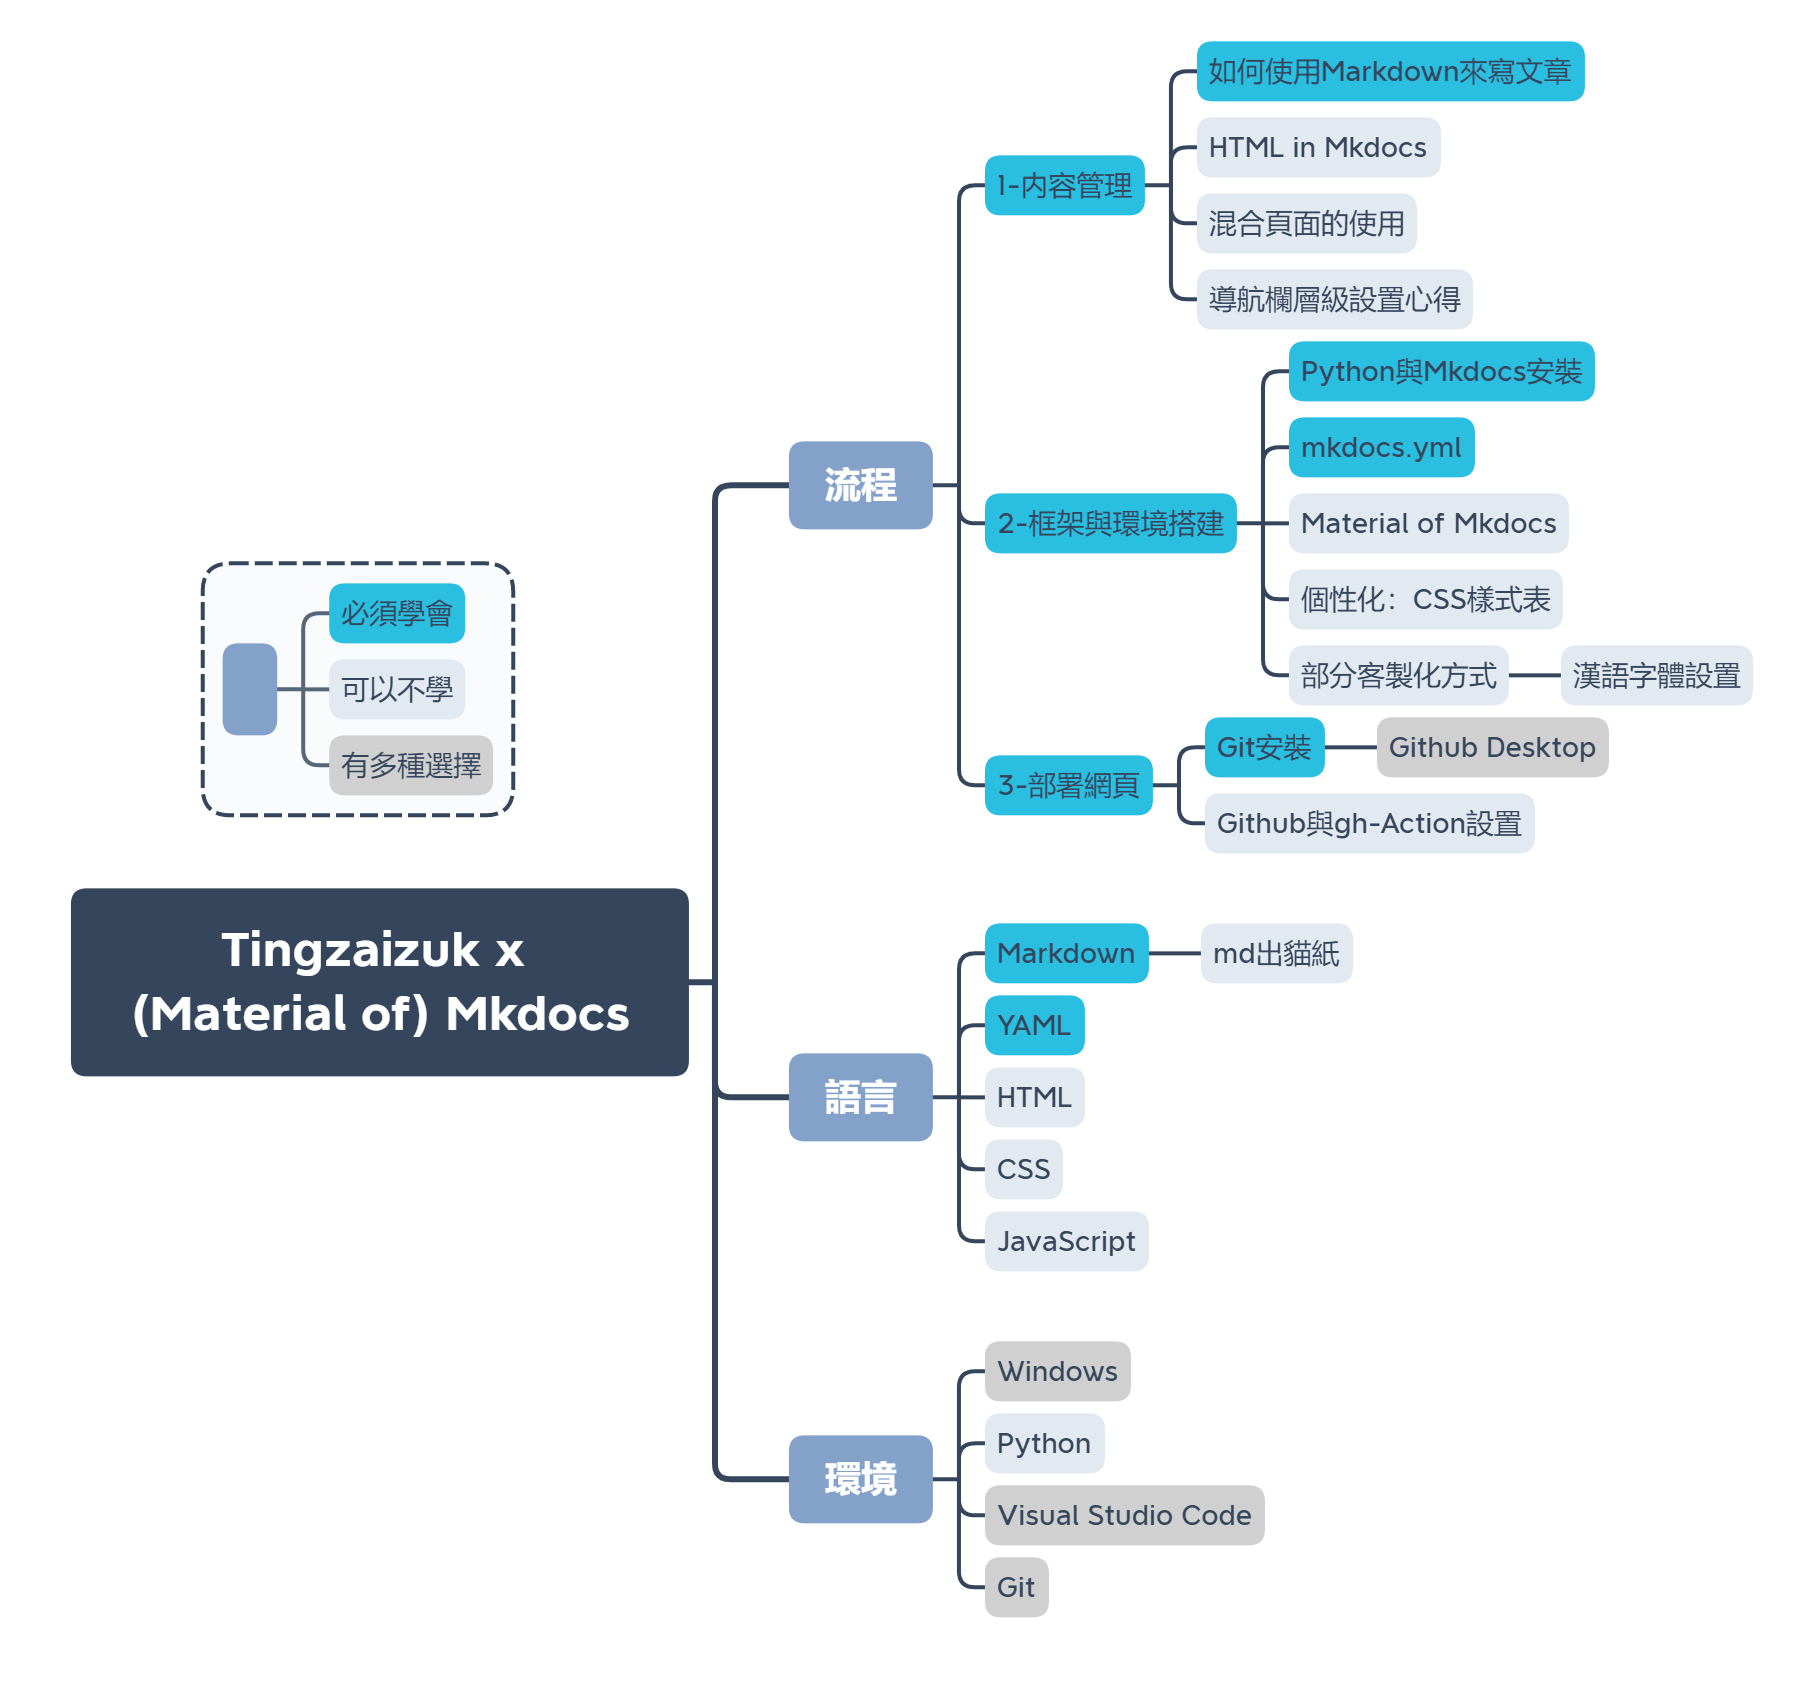
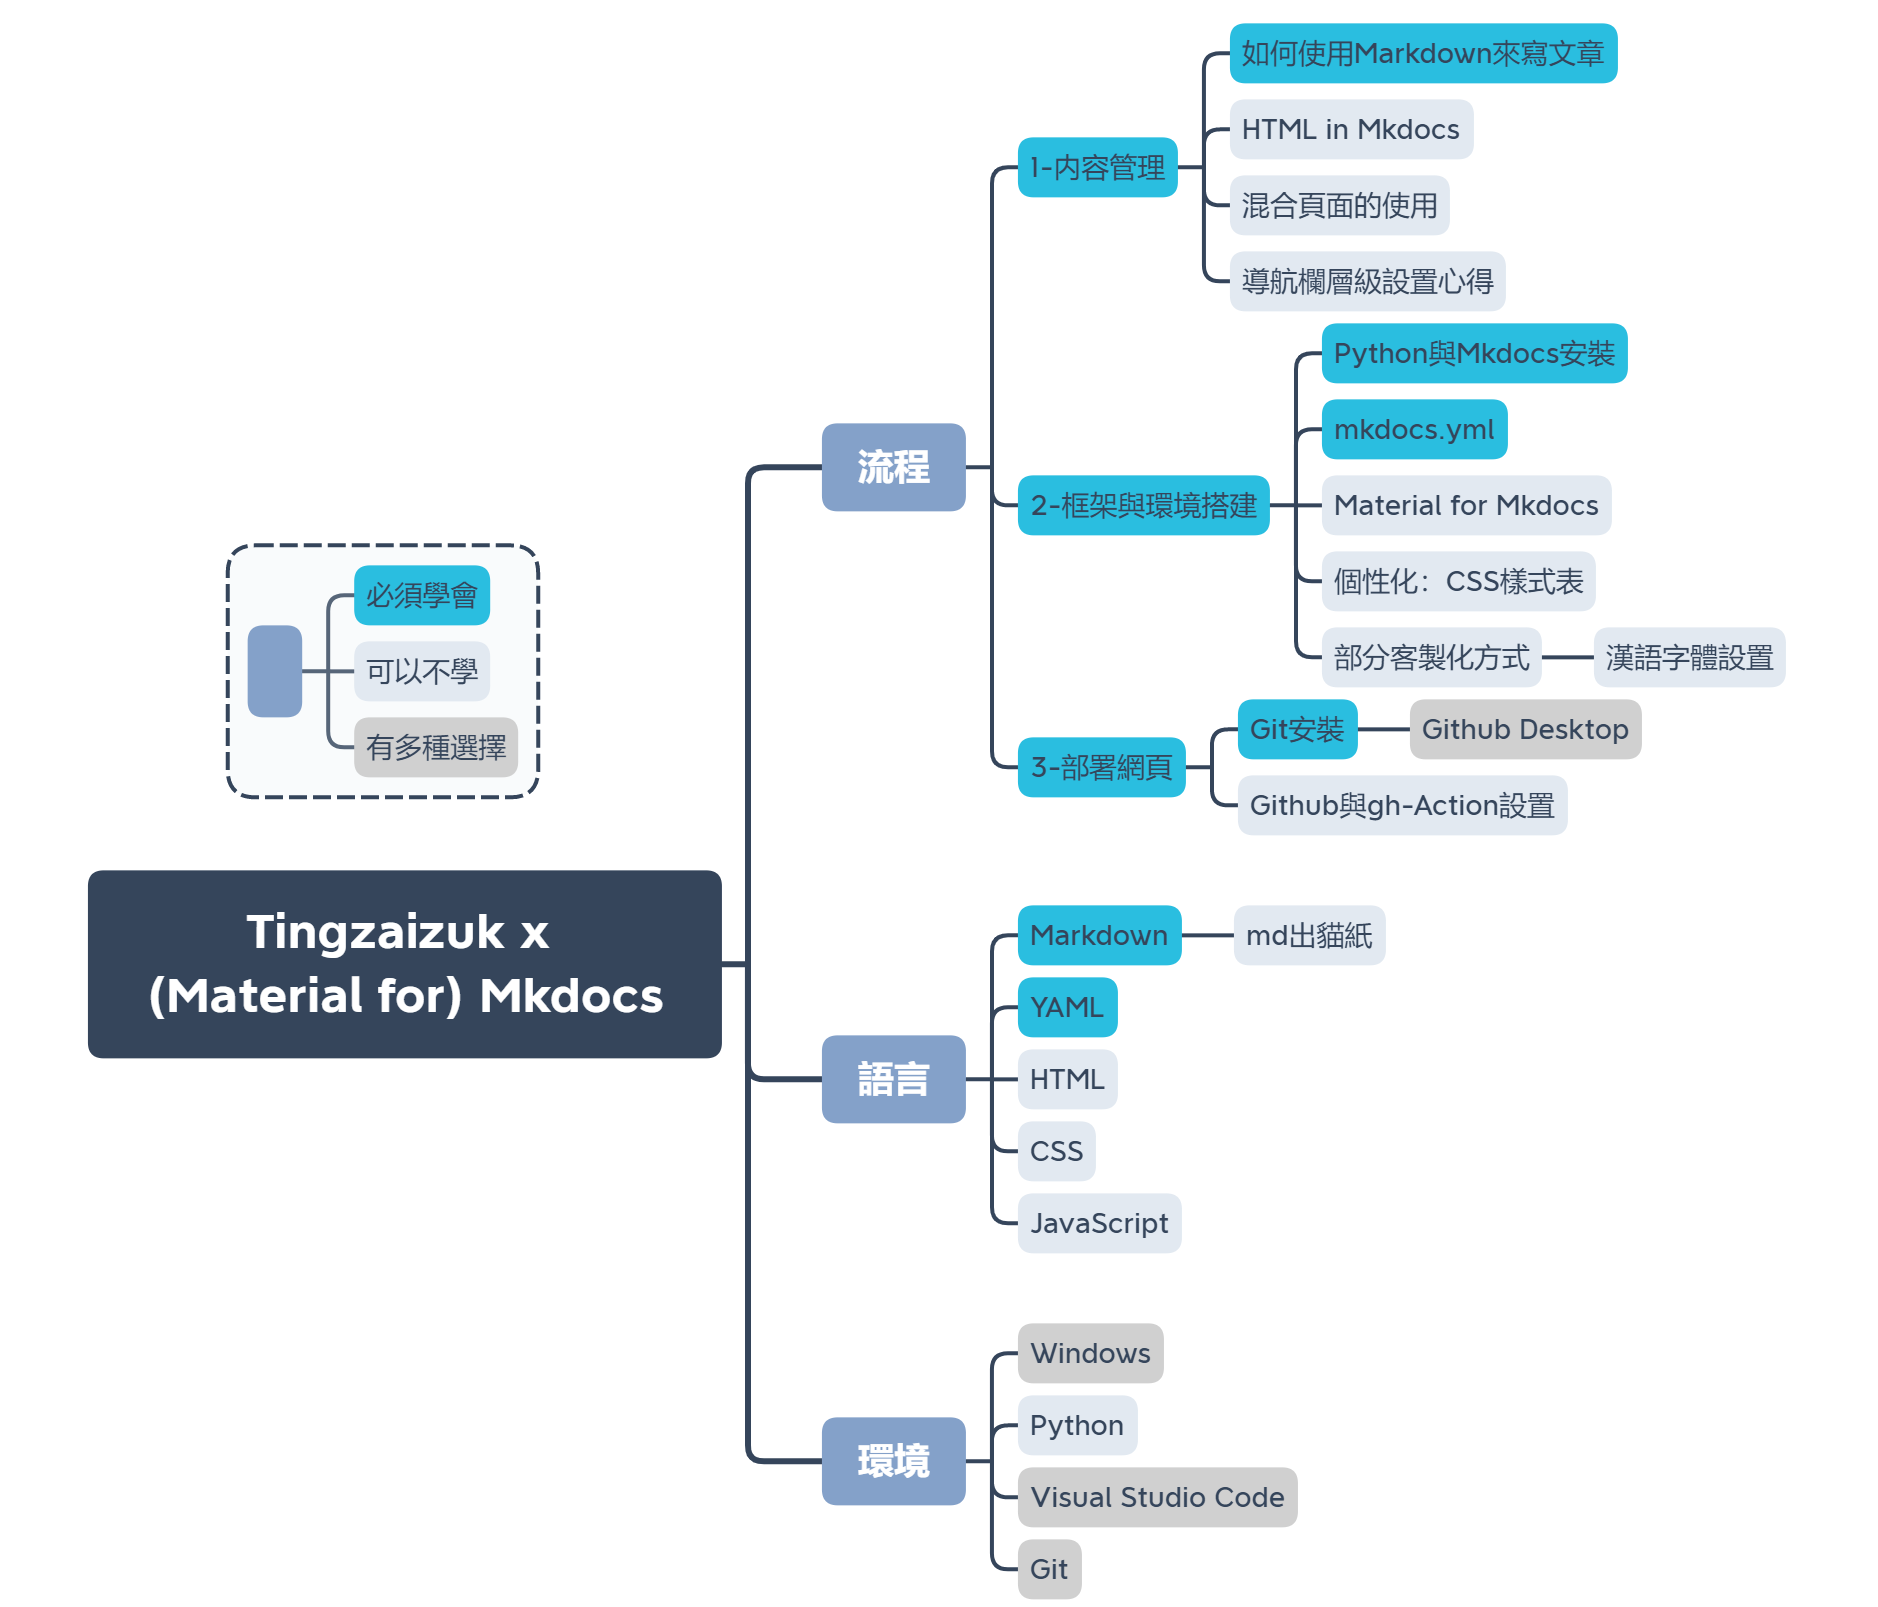
typo

Changed region(s): [[0.0308, 0.0, 0.9857, 0.9956]]

diff --git a/docs/tech/mkdocsbuild.md b/docs/tech/mkdocsbuild.md
@@ -1,6 +1,6 @@
-# Material of Mkdocs 個人網站搭建
+# Material for Mkdocs 個人網站搭建
 
-這篇文章講述了本網站運用Mkdocs與其衍生模板框架Material of Mkdocs的使用方法之快速導覽，記錄的目的一個在於對自己搭建本網站的經歷進行文字化存檔；另一個在於可讓初學者快速進入工程階段而非在門口徘徊。
+這篇文章講述了本網站運用Mkdocs與其衍生模板框架Material for Mkdocs的使用方法之快速導覽，記錄的目的一個在於對自己搭建本網站的經歷進行文字化存檔；另一個在於可讓初學者快速進入工程階段而非在門口徘徊。
 
 ## 快速導覽
 
@@ -12,7 +12,7 @@ Tingzaizuk 是一個靜態網站。它不需要服務器也可以托管在GitHub
 
 - 閲讀官方文檔：
     - Mkdocs: <https://www.mkdocs.org/>
-    - Material of Mkdocs: <https://squidfunk.github.io/mkdocs-material/>
+    - Material for Mkdocs: <https://squidfunk.github.io/mkdocs-material/>
 
 - 下載需要用到的東西：
     - VS Code （推薦）: <https://code.visualstudio.com/>

diff --git a/docs/tech/chnfonts.md b/docs/tech/chnfonts.md
@@ -1,6 +1,6 @@
 # Mkdocs 漢語字體設置
 
-在Material of Mkdocs中，漢語中文本身自帶。由於其本身自帶的字體為 Roboto，中文顯示與英文一樣是非襯綫字體。但mfm允許用戶使用HTML支持的字體，但更簡單的方法是只用Google Fonts提供的字體。
+在Material for Mkdocs中，漢語中文本身自帶。由於其本身自帶的字體為 Roboto，中文顯示與英文一樣是非襯綫字體。但mfm允許用戶使用HTML支持的字體，但更簡單的方法是只用Google Fonts提供的字體。
 
 目前Google Fonts擁有8種不同類的字體（僅Noto支持近乎所有繁體字）。一般情況下大多數人只想轉換Serif/Sans Serif字體，其他字體雖然彰顯個性但有些字不支持改字體會顯得與内容格格不入，影響整體美觀。
 
